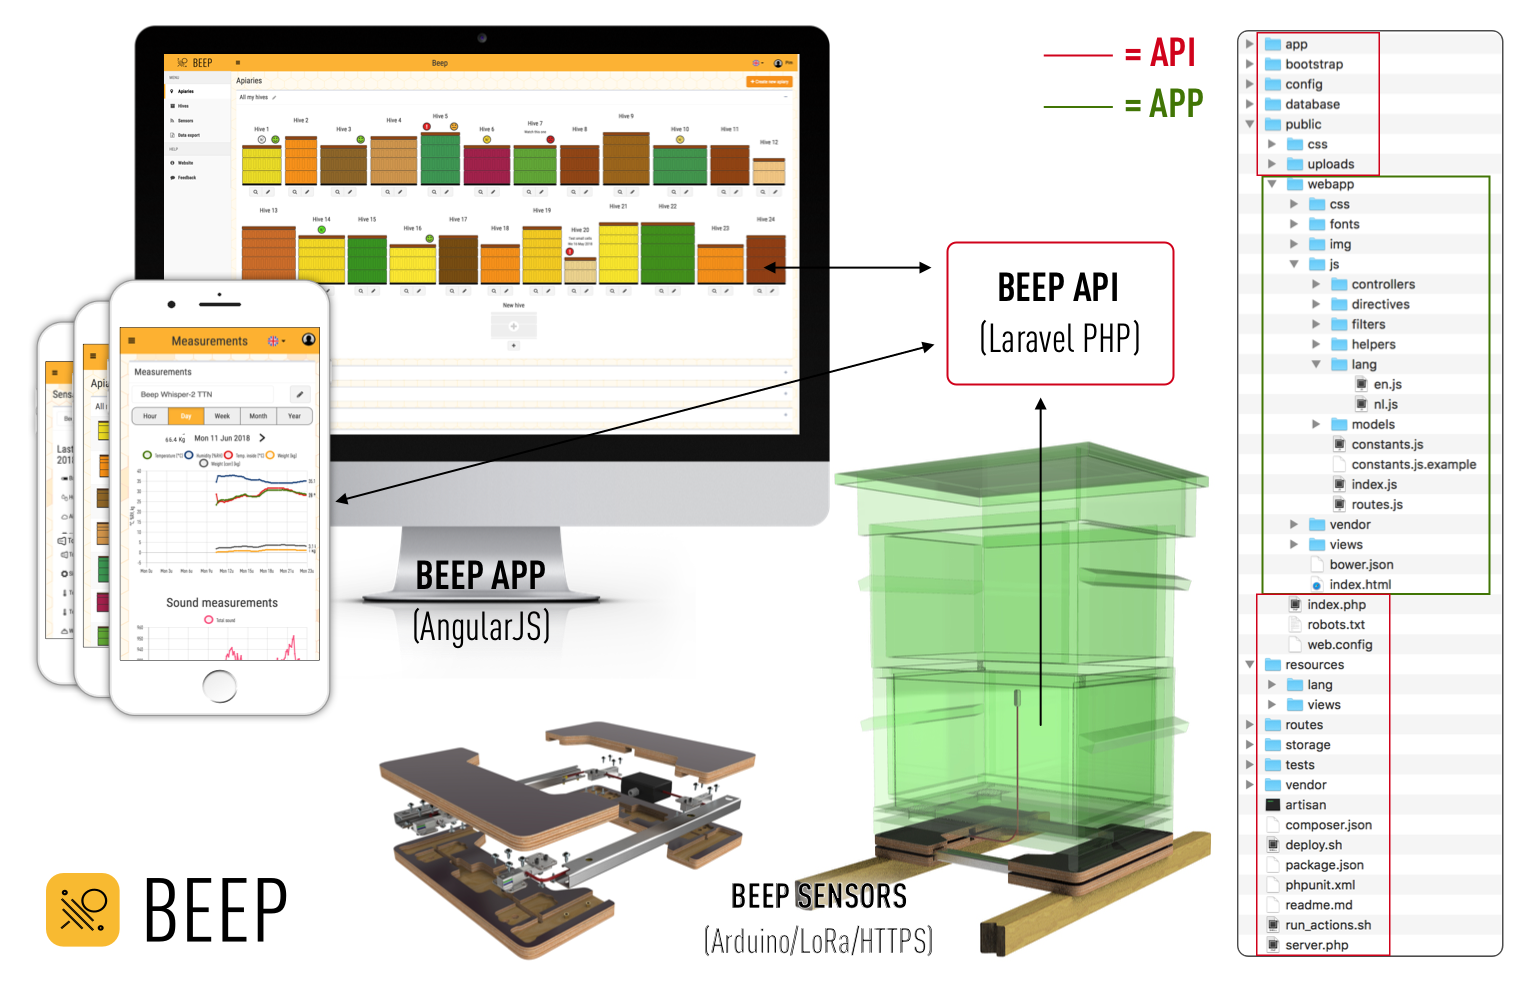
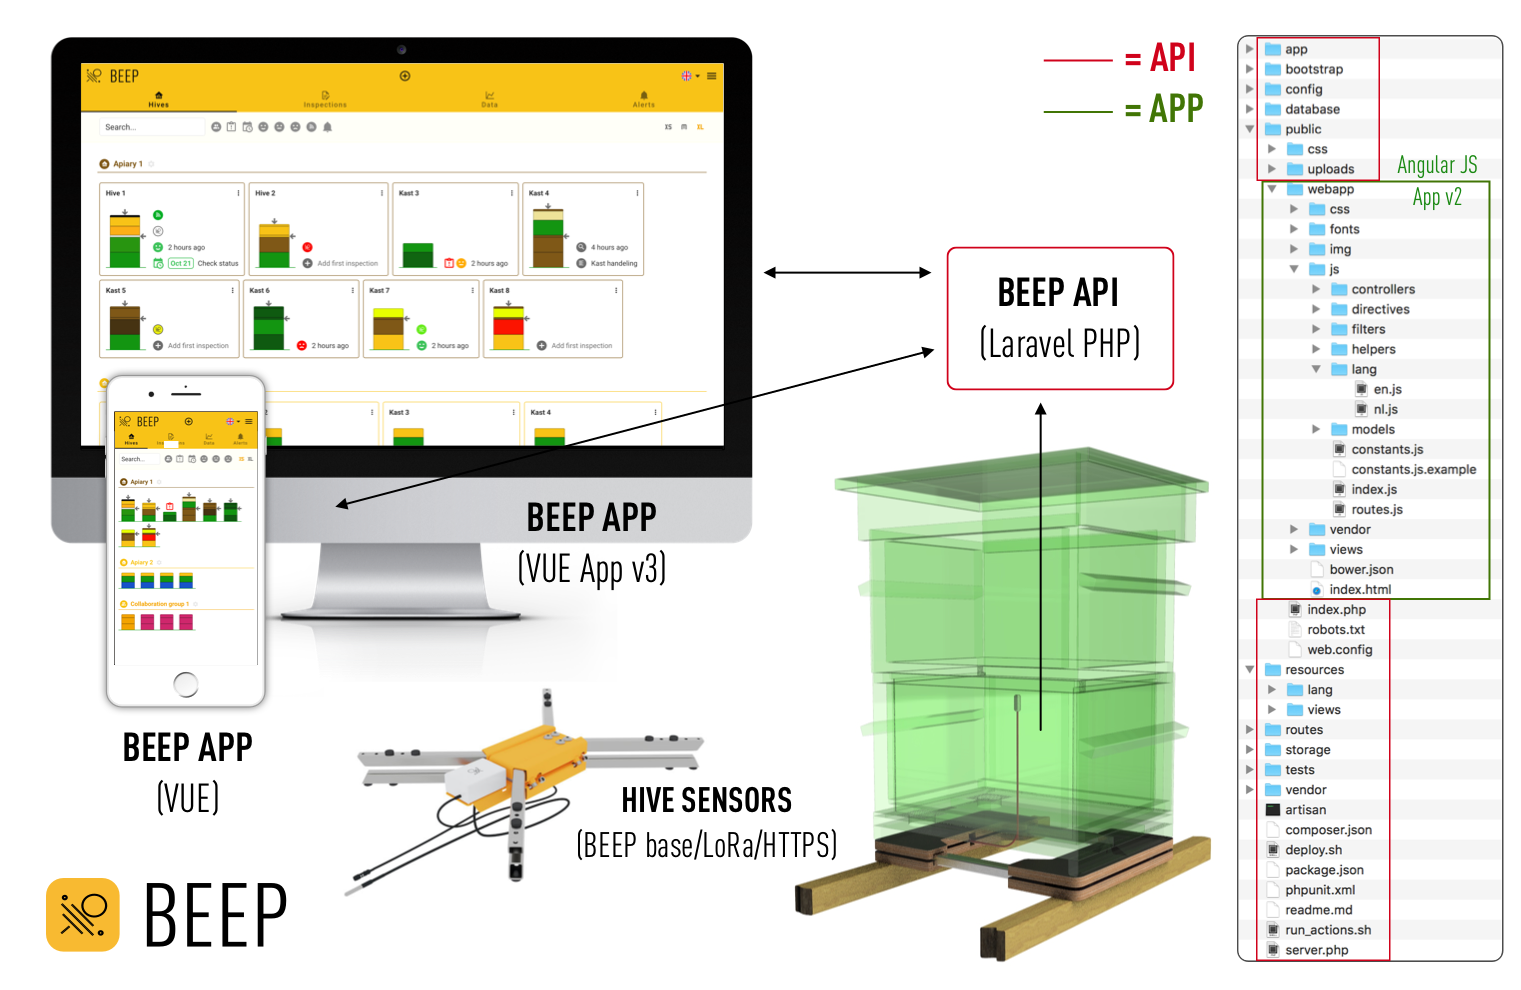
System update for BEEP app v3

diff --git a/readme.md b/readme.md
@@ -1,131 +1,81 @@
-# BEEP - Open source bee monitoring (v2.2.1)
+# BEEP - Open source bee monitoring (v3.0.1)
+BEEP is open source combination of a bee monitoring app + automatic bee hive measurement device. It's key feature is to integrate a user friendly responsive app for manual inspections with automatically measured sensor data.
+Check the website https://beep.nl/index.php/home-english for more information.
 
-
-BEEP is a combination of a bee monitoring (Laravel PHP) framework API + an (Angular JS) app and a (Influx) time series sensor data database. There are also first steps of creating cost efficient measurement hardware.
-
-It's key feature is to integrate a user friendly responsive app for manual inspections with automatically measured sensor data.
-
+## App
+The [BEEP app](https://github.com/beepnl/beep-vue-app) consists of a (VUE JS) app, (Laravel PHP) API + an InfluxDB time series database. The VUE (v3) app replaced the Angular JS (v2) app in 2021.
 Create a login and check the live app at: https://app.beep.nl
+
+## Measurements
+BEEP created an open source hardware system, called the [BEEP base](https://beep.nl/index.php/home-english), that measures weight, temperature and sound. You can also use your own measurement device with the BEEP app.
+
 
 # System overview
 ![BEEP System overview](https://github.com/beepnl/BEEP/raw/master/BEEP-system-overview.png)
 
-You are free to use the BEEP app, it's free and it will be developed further in the near future. If you would like to install it on your own server, or contribute; please read on below.
+You are free to use the BEEP app.
 
-# Installation of API and APP (on your own server)
+If you would like to install it on your own server, or contribute; please read on below.
+
+# Installation of API on your own server
+
+You can use the [BEEP api](https://api.beep.nl/docs/) on our live server, or set up your own server running the API.
 
 ## 0. Server specs
 
 * Linux Debian (8+)
 * Software installed
-  * PHP 7.1+
+  * PHP 7.4+
   * MariaDB/MySQL
   * Apache 2 (or Nginx, creating Nginx 'server blocks' in step 4)
   * InfluxDB (https://docs.influxdata.com/influxdb/v1.7/introduction/installation/)
   * [Composer](https://getcomposer.org/download/) - Installation tool for PHP/Laravel dependencies for API
-  * [npm](https://www.npmjs.com/get-npm) - Installation tool for Javascript/Angular dependencies for App
 * Optional: Letsencrypt SSL certificate generation
 
 
-**NB: You can use this gist to install all the software you need: [LAMP PHP 7.2](https://gist.github.com/pvgennip/84f935e13207db71259f1f57c2667bbd)**
+**NB: We recommend to use [Laravel Forge](https://forge.laravel.com) to easily install all the software you need on any Linux based server**
 
 
-## 1. Clone this repo anywhere you like
-```git clone https://github.com/beepnl/BEEP.git```
+## 1. Clone this repo
+```
+git clone https://github.com/beepnl/BEEP.git
+cd BEEP
+```
 
 ## 2. Database
 
-Create a MySQL database (type: InnoDB, encoding: UTF_8, collation: utf8_unicode_ci) called: 
+Create a MySQL database (type: InnoDB, encoding: UTF_8, collation: utf8mb4_unicode_ci) called: 
 
 ```bee_data```
 
 **NB: Make sure to pass the user and credentials to the newly made .env file after step 3.**
 
 
-## 3. Install required vendor libraries 
+## 3. Install dependencies 
 
-a. Make the ```run_actions.sh``` file executable by ```chmod +x run_actions.sh```. This bash script will install all the packages and vendor dependencies that you need at once.
-
-b. Then run it: ```./run_actions.sh```
+```
+if [ ! -f '.env' ]; then cp .env.example .env && php artisan key:generate; fi
+composer install && sudo chmod -R 777 storage && sudo chmod -R 777 bootstrap/cache && php artisan storage:link && php artisan migrate --force
+```
 
 NB: To stick to a certain PHP version (on the server e.g. 7.1.25), use ```composer install --ignore-platform-reqs``` or ```composer update --ignore-platform-reqs```
 
 ## 4. Set up your end-points
 
-a. Make sure your server has 2 different virtual hosts for the API and the APP
+### Laravel Forge
+Simply use the default Nginx template and install Let's Encrypt SSL certificate via the interface.
 
-NB: On Amazon AWS (Bitnami LAMP_7.1): 
-a. Make sure your Bitnami server includes your apps/apache_vhost.conf in 
-```
-sudo nano /opt/bitnami/apache2/conf/bitnami/bitnami-apps-vhosts.conf
-```
-
-Contains one or more Includes:
-```
-# Bitnami applications installed in a Virtual Host
-Include "/opt/bitnami/apps/apache/portal-vhost.conf"
-```
-
-Bitnami restart apache server:
-```
-sudo /opt/bitnami/ctlscript.sh restart apache
-```
+### Apache
+Install the desired config files from [/apache](https://github.com/beepnl/BEEP/tree/master/apache) to your ```apache/sites-available``` folder and enable them with ```a2ensite [config file name]```
 
 
-API (replace 'beep.nl' with your own server/test domain)
-```
-<VirtualHost api.beep.nl:80>
-    
-    DocumentRoot /var/www/bee/public
-    ServerName "api.beep.nl"
-
-    <Directory /var/www/bee/public/>
-        Options Indexes FollowSymLinks MultiViews
-        AllowOverride All
-        Order allow,deny
-        allow from all
-    </Directory>
-
-</VirtualHost>
-```
-
-APP (replace 'beep.nl' with your own server)
-```
-<VirtualHost app.beep.nl:80>
-    
-    DocumentRoot /var/www/bee/public/webapp
-    ServerName "app.beep.nl"
-
-    <Directory /var/www/bee/public/webapp/>
-        Options Indexes FollowSymLinks MultiViews
-        AllowOverride All
-        Order allow,deny
-        allow from all
-    </Directory>
-
-</VirtualHost>
-```
-
-b. Optionally, install SSL certificates to your endpoints with [Let's Encrypt](https://letsencrypt.org/getting-started/)
-
-On AWS:
-```
-sudo /opt/bitnami/letsencrypt/scripts/generate-certificate.sh -m pim@iconize.nl -d api.beep.nl -d app.beep.nl
-```
-
-On other servers with command: ```sudo certbot --authenticator webroot --installer apache```
+Install SSL certificates to your endpoints with [Let's Encrypt](https://letsencrypt.org/getting-started/)
 
 ## 5. Add Influx database
-```
-influx
-> CREATE USER user_influx WITH PASSWORD 'pass_influx' WITH ALL PRIVILEGES
-> CREATE DATABASE bee_data
-> exit
-```
-**NB: Make sure to pass the user and credentials to the .env file that has been created in step 3.**
-**NB: If your Influx version was < 1.1.x (no TSI support), when using backups to transfer data: first install the old version that you are currently using on a new server, import the backups, then update to the newest Influx version!**
+### Installati
+Install [InfluxDB](https://www.influxdata.com/) or set up an account at [InfluxCloud](https://cloud2.influxdata.com/signup)
 
-### Optional: migrate from local Influx v1.7.3 db to managed InfluxDB Cloud
+#### Optional: migrate from local Influx v1.7.3 db to managed InfluxDB Cloud
 
 - https://docs.influxdata.com/influxdb/cloud/upgrade/v1-to-cloud/
 - NB: If you have inlfux already installed, use ```./influx``` for the commands from inside the installation folder
@@ -141,29 +91,29 @@ sudo tail -n +4 test_beep_nl_temp.lp > test_beep_nl.lp
 ./influx write --bucket-id [copy-from-influx-cloud] --file test_beep_nl.lp --rate-limit "300 MB / 5 min" --skipRowOnError
 ```
 
+### Setup
+Create a databse and user
+```
+influx
+> CREATE USER user_influx WITH PASSWORD 'pass_influx' WITH ALL PRIVILEGES
+> CREATE DATABASE bee_data
+> exit
+```
+**NB: Make sure to pass the user and credentials to the .env file that has been created in step 3.**
+**NB: If your Influx version was < 1.1.x (no TSI support), when using backups to transfer data: first install the old version that you are currently using on a new server, import the backups, then update to the newest Influx version!**
 
-## 6. If you would like to easily deploy your fork (or this repo), 
 
-a. Make sure to add your repo to git remote: ```git remote set url https://github.com/beepnl/BEEP.git```
+# Configuring your own back-end system
 
-b. Run ```./deploy.sh``` to update your clone on any server
-
-
-# Configuring the back-end system
-
-## 1. Check database tables
-
-If you did not run ```./run_actions```, please do so, to install all the database tables and set up the default categorization.
-
-## 2. Set up valid credentials
+## 1. Set up valid credentials
 
 a. Set up e-mail credentials in the ```.env``` config file
 
-b. For the webapp to reach the API, rename the file 'public/webapp/js/constants.js.example' to 'public/webapp/js/constants.js' and edit it to change the 'api_url' to your own back-end API end-point
+b. (Angular JS webapp v2) For the webapp to reach the API, rename the file 'public/webapp/js/constants.js.example' to 'public/webapp/js/constants.js' and edit it to change the 'api_url' to your own back-end API end-point
 
 c. To enable schedules (e.g. for loading weather data), install a crontab with ```sudo crontab -e``` and add: ```* * * * * cd /home/bitnami/apps/appdir && /opt/bitnami/php/bin/php artisan schedule:run >> /dev/null 2>&1```
 
-## 3. Register new user
+## 2. Register new user
 
 a. Go to ```api.[your_domain]/webapp#!/login/create```
 
@@ -219,9 +169,8 @@ Please request access to our slack community at https://beep-global.slack.com if
 ## Adding a language
 
 1. Create a Beep user account at https://app.beep.nl/#!/login/create
-2. Fork this repo
-3. Send an e-mail to support@beep.nl with you user e-mail address, asking to become a translator for a certain language
-4. Log into the backend to start translating
+2. Send an e-mail to support@beep.nl with you user e-mail address, asking to become a translator for a certain language
+3. Log into the backend to start translating
 
 
 # Roadmap
